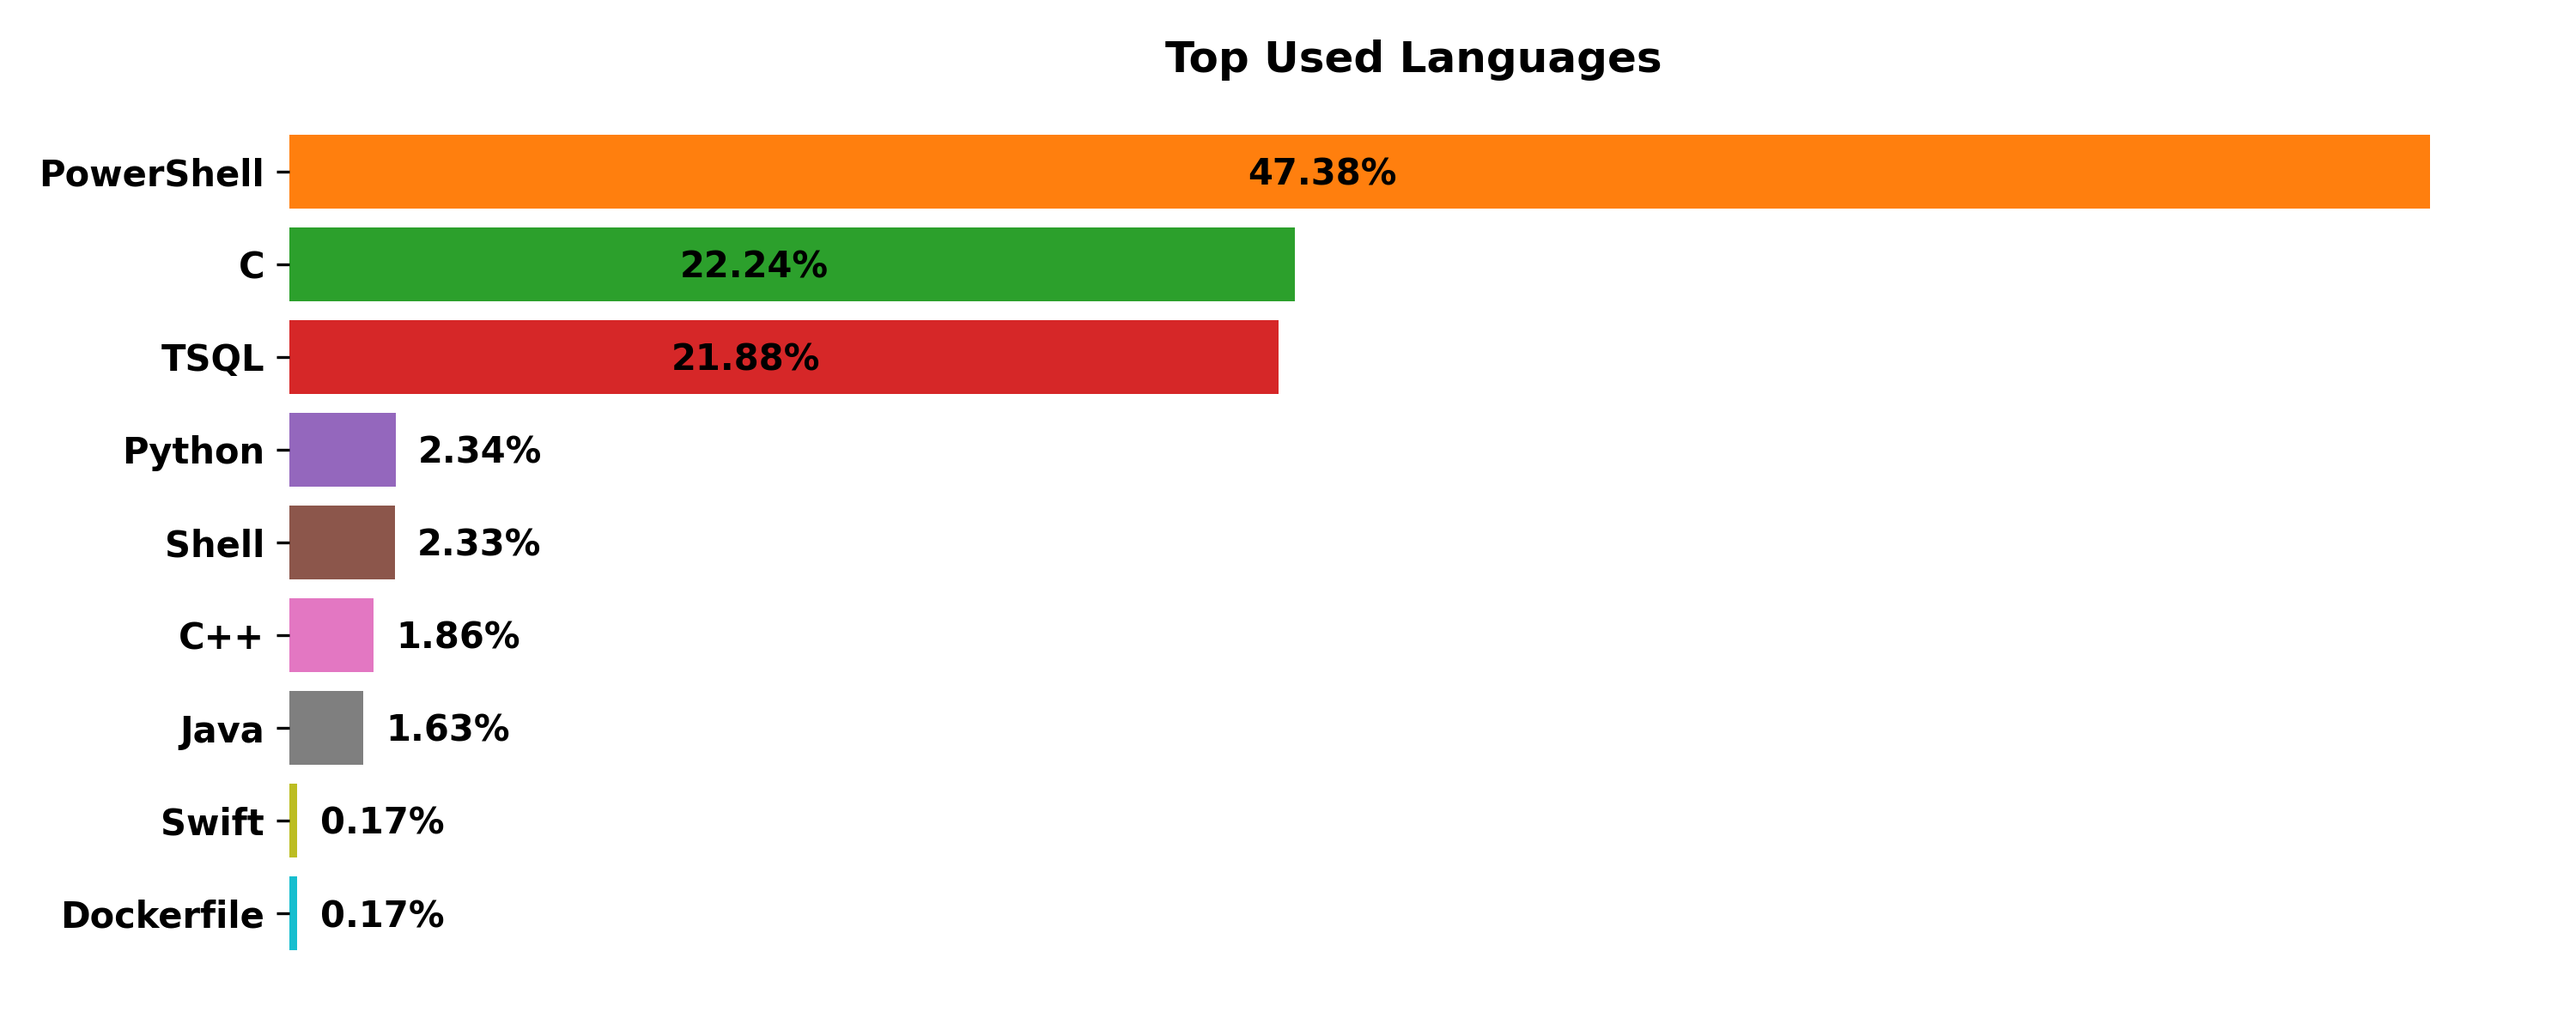
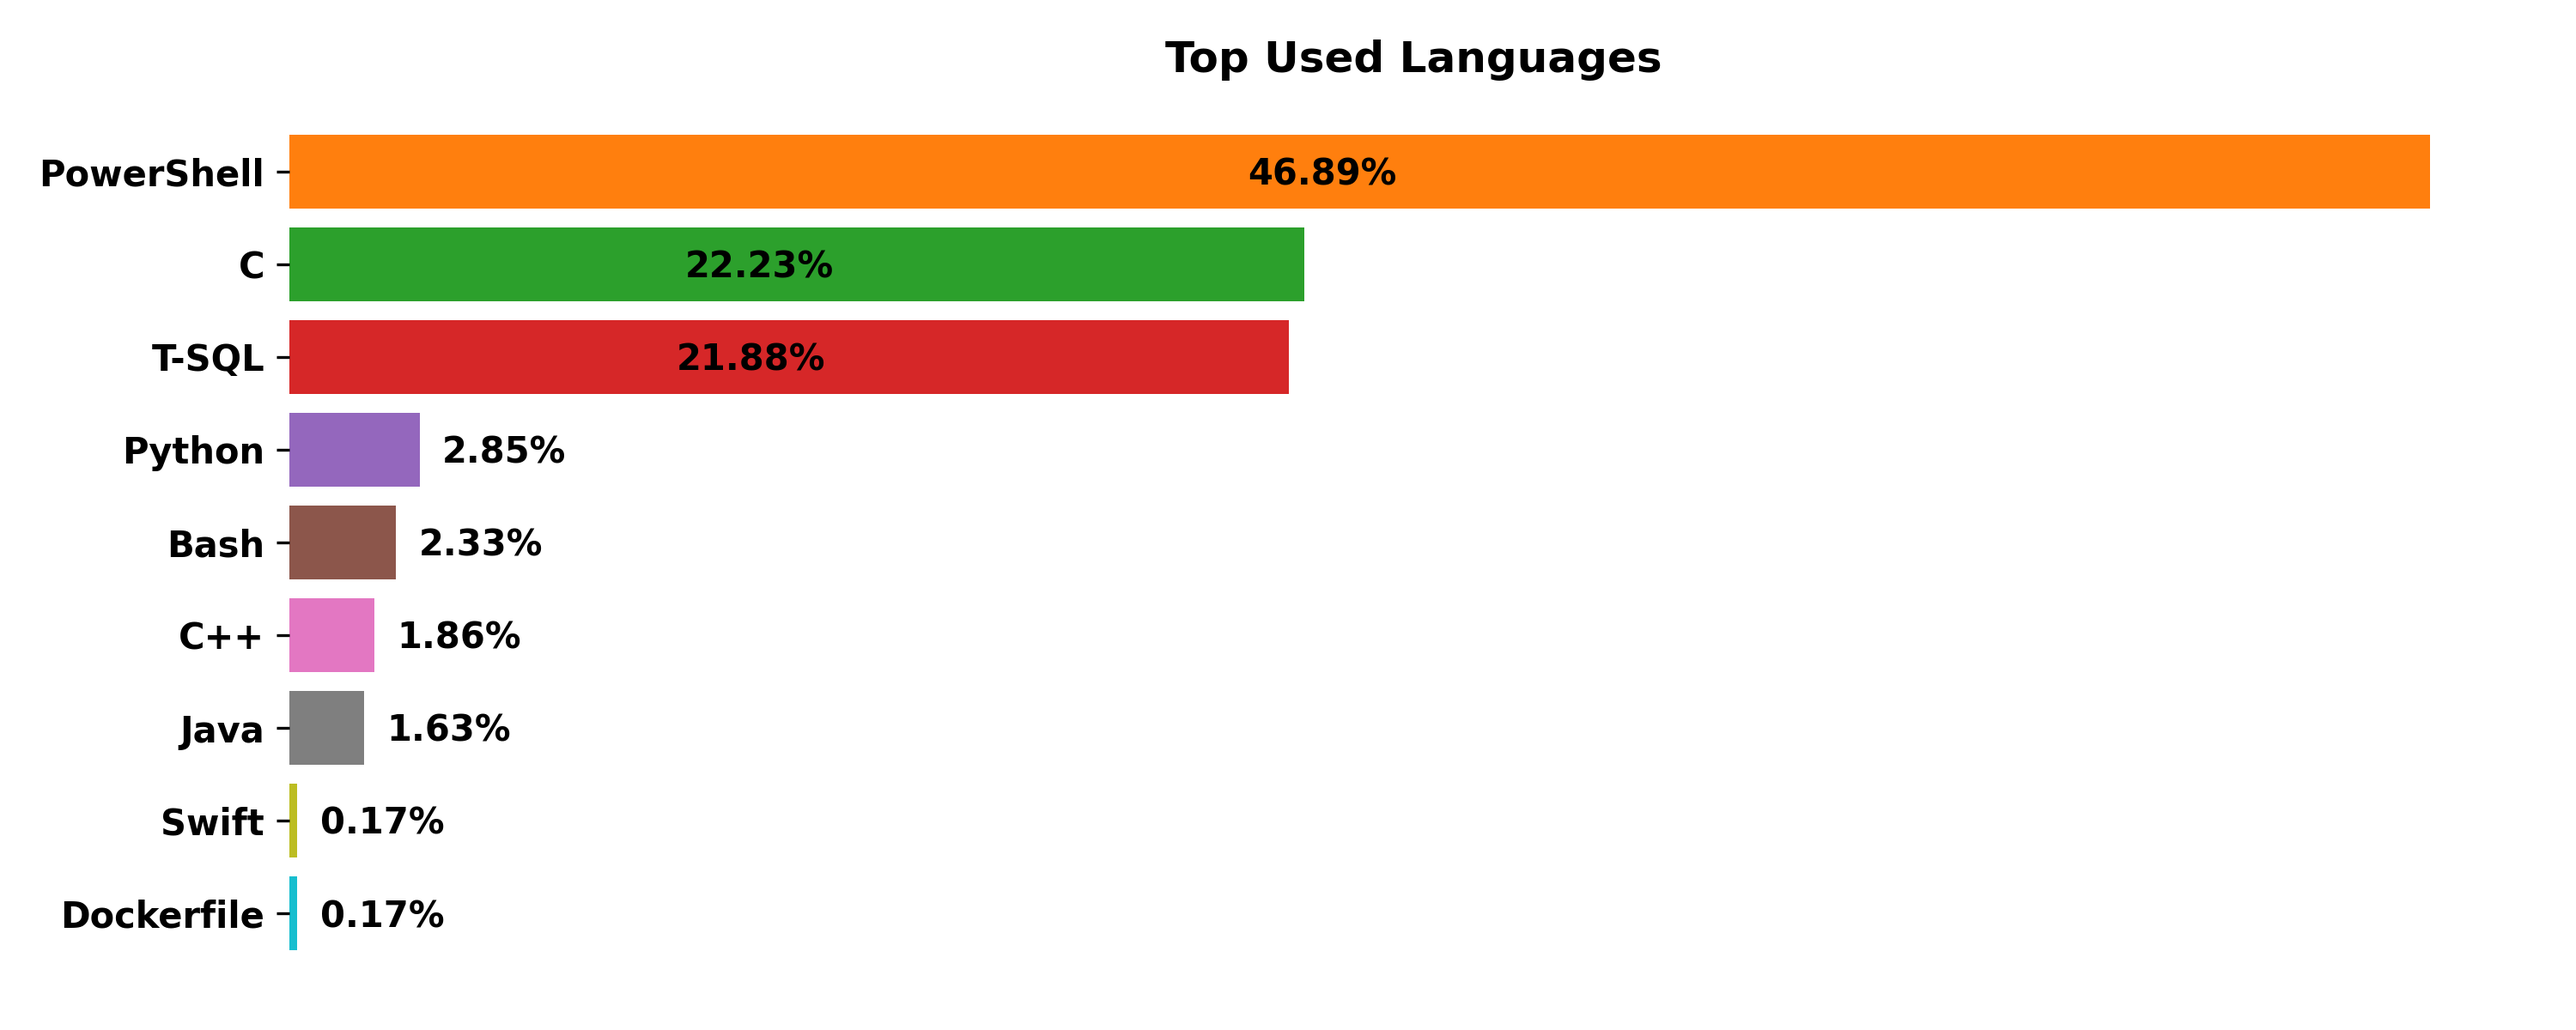
Language name translation implemented.

diff --git a/Update_GitHub_Lang_Stats.py b/Update_GitHub_Lang_Stats.py
@@ -54,7 +54,7 @@
     
 .NOTES
 
-    Version:            2.0
+    Version:            2.2
     Author:             Stanisław Horna
     Mail:               stanislawhorna@outlook.com
     GitHub Repository:  https://github.com/StanislawHornaGitHub/GitHub_Statistics
@@ -65,6 +65,13 @@
     2024-02-20      Stanisław Horna         Basic logs implemented
     2024-02-21      Stanisław Horna         LanguageStats JSON file added to be pushed to destination repository
     2024-03-01      Stanisław Horna         All operations performed previously in .ps1 moved to .py
+    2024-03-03      Stanisław Horna         Language name translation implemented. Changes in Config file.
+    2024-03-04      Stanisław Horna         Creating Log instance moved to main function to prevent displaying logs,
+                                            while using -h param for help.
+                                            Info for the user what was done:
+                                            "Destination repository has NOT been updated, because --Do_Not_Make_Push was used."
+                                            "Destination repository has NOT been updated, because stats did not change."
+                                            "Destination repository has been successfully updated."
 
 """
 
@@ -81,7 +88,7 @@ from Dependencies.Function_GitHubRepos import *
 from Dependencies.Class_Log import Log
 
 # argparse configuration section
-programSynopsis ='''
+programSynopsis = '''
 Script to generate Language statistics for GitHub user authenticated with provided token and 
 update repository with horizontal bar charts representing used programming languages.
 '''
@@ -107,8 +114,11 @@ parser.add_argument(
 )
 
 
+def main(options):
 
-def main(options, Logger: Log):
+    # Init logger and write first message
+    Logger = Log()
+    Logger.writeLog("info", "Script started")
 
     # Set correct working directory in order to work with relative paths
     setCorrectPath(Logger),
@@ -133,7 +143,7 @@ def main(options, Logger: Log):
     # Download Language statistics for each repository from the list
     repositories = getRepositoryList(configuration, Logger)
     repositories = getRepositoryLanguageStats(repositories, Logger)
-    
+
     # Loop through each repository and create a stats summary grouped by programming language
     # Based on created summary calculate percentage for each programming language
     stats = calculateLanguageUsage(configuration, repositories, Logger)
@@ -170,7 +180,7 @@ def main(options, Logger: Log):
     # Create horizontal bar chart if language percentage differs
     # or if script switch --Always_Create_New_Plot was used
     if plotUpdateIsRequired or options.Always_Create_New_Plot:
-        
+
         # Create PNG file with chart for Light version of GitHub:
         # transparent background and black font color
         saveBarChart(
@@ -184,7 +194,7 @@ def main(options, Logger: Log):
             labelsTextColor='black',
             Logger=Logger
         )
-        
+
         # Create PNG file with chart for Dark version of GitHub:
         # transparent background and white font color
         saveBarChart(
@@ -214,14 +224,17 @@ def main(options, Logger: Log):
             ),
             Logger=Logger
         )
-        
+
         # If --Do_Not_Make_Push switch arg was NOT used enter the section to:
         #   commit changes
         #   push them to repository to update
         #   remove directory where repo clone was saved
-        if not options.Do_Not_Make_Push:
-            
-            # Add all changed files to stage, 
+        if options.Do_Not_Make_Push:
+            print(
+                "Destination repository has NOT been updated, because --Do_Not_Make_Push was used.")
+        else:
+
+            # Add all changed files to stage,
             # commit them with message from config file with added date and hour
             commit(
                 repoDirectory=os.path.join(
@@ -252,16 +265,18 @@ def main(options, Logger: Log):
                 ),
                 Logger=Logger
             )
-            
-            print("Destination repository has been successfully updated")
-            
+
+            print("Destination repository has been successfully updated.")
+
     # Neither changes in language percentage was found
     # nor script switch --Always_Create_New_Plot was used
     else:
-        
+
+        print("Destination repository has NOT been updated, because stats did not change.")
+
         # If --Do_Not_Make_Push switch arg was used prevent removing repo to update directory
         if not options.Do_Not_Make_Push:
-            
+
             # Remove directory where repo clone was saved
             cleanUpTempFiles(
                 repoDirectory=os.path.join(
@@ -270,18 +285,15 @@ def main(options, Logger: Log):
                 ),
                 Logger=Logger
             )
-            
+
+    # Write completion message
+    Logger.writeLog("info", "Script completed")
+
     return None
+
 
 # Run only if this file is called
 if __name__ == "__main__":
-    
-    # Init logger and write first message
-    Logger = Log()
-    Logger.writeLog("info", "Script started")
-    
+
     # invoke main function with parser args
-    main(parser.parse_args(), Logger)
-    
-    # Write completion message
-    Logger.writeLog("info", "Script completed")
+    main(parser.parse_args())

diff --git a/Dependencies/Function_Stats.py b/Dependencies/Function_Stats.py
@@ -19,6 +19,7 @@
 
     Date            Who                     What
     2024-02-20      Stanisław Horna         Basic logs implemented
+    2024-03-03      Stanisław Horna         Language name translation implemented.
     
 """
 from Dependencies.Class_Log import Log
@@ -39,21 +40,31 @@ def calculateLanguageUsage(config: dict, repositoryDetailedList: list[dict[str, 
 
         # loop through each language in current repository
         for currentLang in repo["Languages"]:
-
-            if currentLang not in excludedLangs:
+            
+            # Check if mapping for current language is defined,
+            # if not use the default name
+            if currentLang in config["LANGUAGE_NAME_MAP"]:
+                langToDisplay = config["LANGUAGE_NAME_MAP"][currentLang]
+            else:
+                langToDisplay = currentLang
                 
-                # cast current value to int
-                currentValue = int(repo["Languages"][currentLang])
-                # sum current value with overall sum
-                overallSum += currentValue
+            # skip iteration if current language is excluded
+            if currentLang in excludedLangs or langToDisplay in excludedLangs:
+                continue
                 
-                # if currently processing language exists in languages dict,
-                # sum existing value with currently processing one,
-                # otherwise create new entry for not existing lang so far and assign value
-                if currentLang in languages:
-                    languages[currentLang] += currentValue
-                else:
-                    languages[currentLang] = currentValue
+            # cast current value to int
+            currentValue = int(repo["Languages"][currentLang])
+            
+            # sum current value with overall sum
+            overallSum += currentValue
+            
+            # if currently processing language exists in languages dict,
+            # sum existing value with currently processing one,
+            # otherwise create new entry for not existing lang so far and assign value
+            if langToDisplay in languages:
+                languages[langToDisplay] += currentValue
+            else:
+                languages[langToDisplay] = currentValue
     
     Logger.writeLog("info",f"Found languages after exclusion: {', '.join(list(languages.keys()))}")
     

diff --git a/README.md b/README.md
@@ -64,7 +64,11 @@ so once the script will end you can verify the results.
                                         <to_skip>,
                                         <from>,
                                         <plot>
-                                        ]
+                                        ],
+            "LANGUAGE_NAME_MAP": {
+                                    "<GitHub_Language_Name>": "<Your_custom_name>",
+                                    "<GitHub_Language_Name>": "<Your_custom_name>"
+                                }
         }
 
 # Required Python Packages
